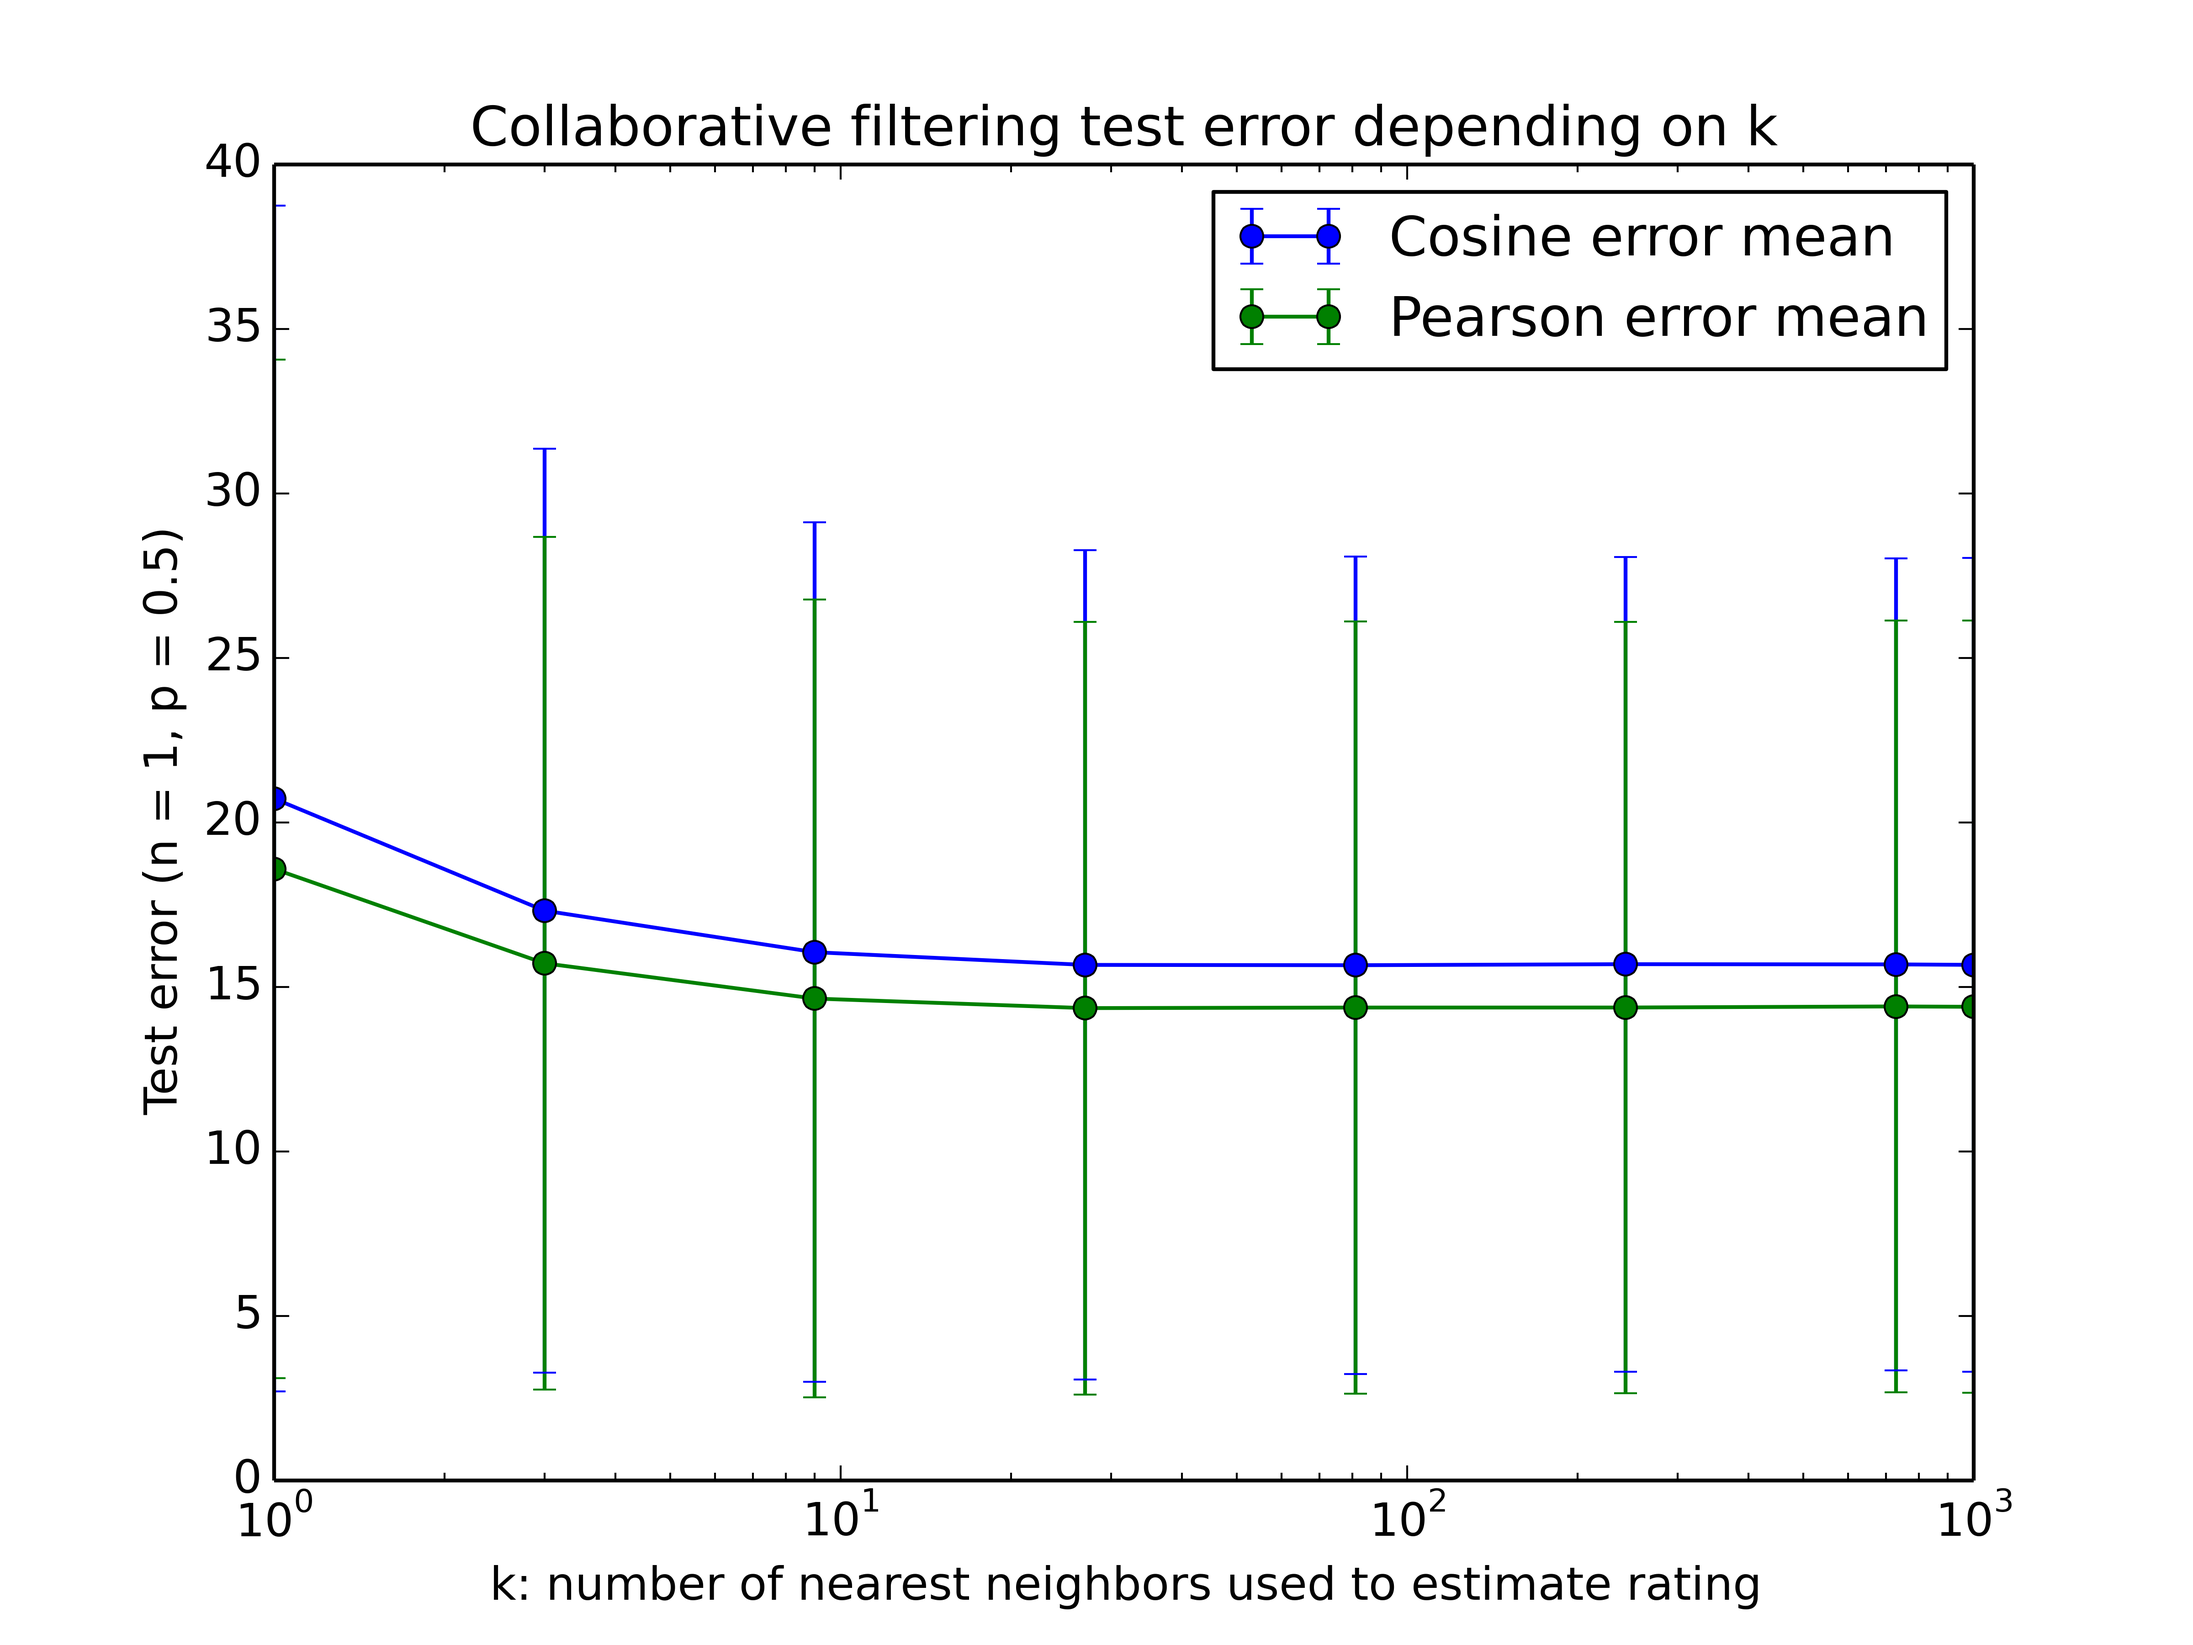
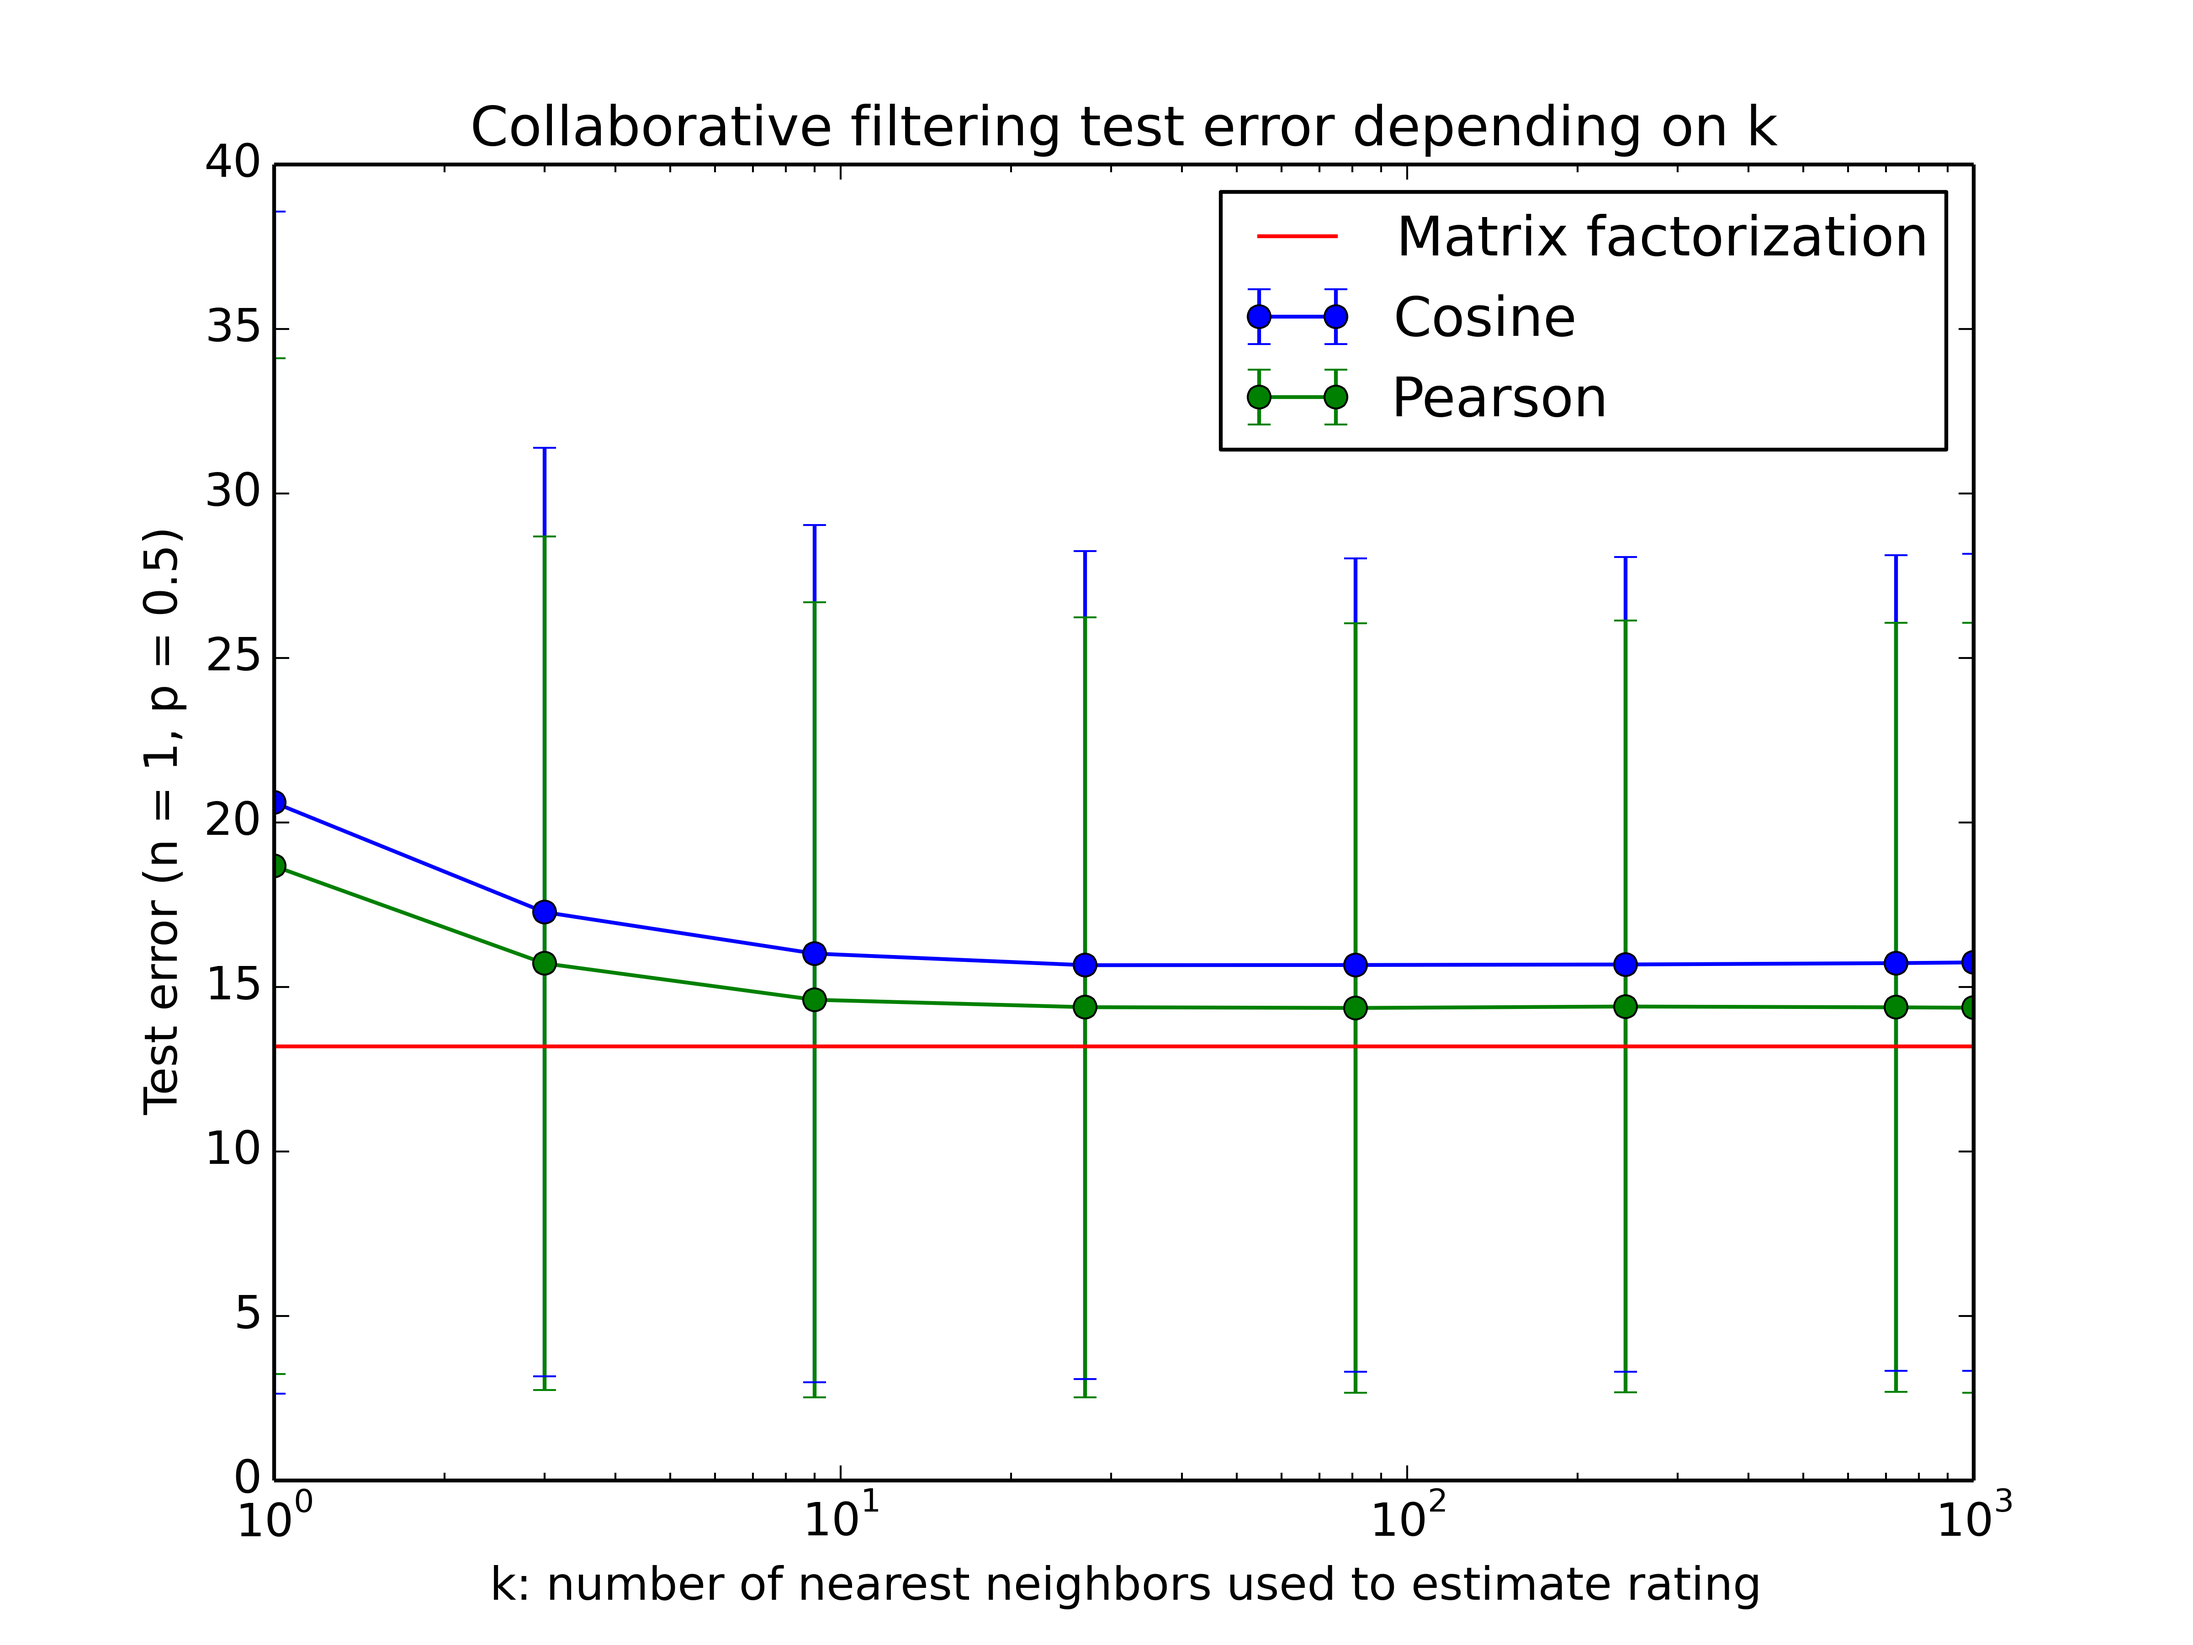
Added matrix factorization line to collab plots

diff --git a/rotten_collab.py b/rotten_collab.py
@@ -12,7 +12,12 @@ from scipy import sparse
 from numpy import linalg
 import matplotlib.pyplot as plt
 
+# Folder in which to save plots
 PLOT_DIR = 'plots/collab'
+# Mean error of mean predictor is mean
+MEAN_ERR = 20
+# Mean error of matrix factorization predictor
+MATRIX_ERR = 13.2
 
 #----------------------------------------------------------#
 # The class that actually performs collaborative filtering #
@@ -279,9 +284,10 @@ def graph_p(ps, n, k):
     plt.figure()
 
     plt.errorbar(ps, cos_err_means, yerr=cos_err_stds, fmt='-o', 
-            label='Cosine error mean')
+            label='Cosine')
     plt.errorbar(ps, pea_err_means, yerr=pea_err_stds, fmt='-o',
-            label='Pearson error mean')
+            label='Pearson')
+    plt.plot(ps, [MATRIX_ERR] * len(ps), label='Matrix factorization')
 
     plt.xscale('log')
     plt.ylabel("Test error (n = {}, k = {})".format(n,k))
@@ -313,9 +319,10 @@ def graph_k(p, n, ks):
     plt.figure()
 
     plt.errorbar(ks, cos_err_means, yerr=cos_err_stds, fmt='-o',
-            label='Cosine error mean')
+            label='Cosine')
     plt.errorbar(ks, pea_err_means, yerr=pea_err_stds, fmt='-o',
-            label='Pearson error mean')
+            label='Pearson')
+    plt.plot(ks, [MATRIX_ERR] * len(ks), label='Matrix factorization')
 
     plt.xscale('log')
     plt.ylabel("Test error (n = {}, p = {})".format(n,p))
@@ -347,9 +354,10 @@ def graph_n(p, ns, k):
     fig = plt.figure()
 
     plt.errorbar(ns, cos_err_means, yerr=cos_err_stds, fmt='-o',
-            label='Cosine error mean')
+            label='Cosine')
     plt.errorbar(ns, pea_err_means, yerr=pea_err_stds, fmt='-o',
-            label='Pearson error mean')
+            label='Pearson')
+    plt.plot(ns, [MATRIX_ERR] * len(ns), label='Matrix factorization')
 
     plt.xscale('log')
     plt.ylabel("Test error (p = {}, k = {})".format(p,k))
